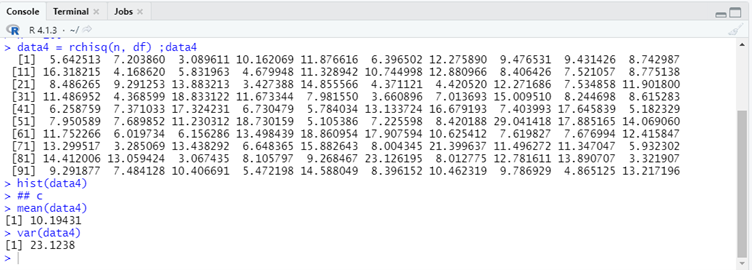
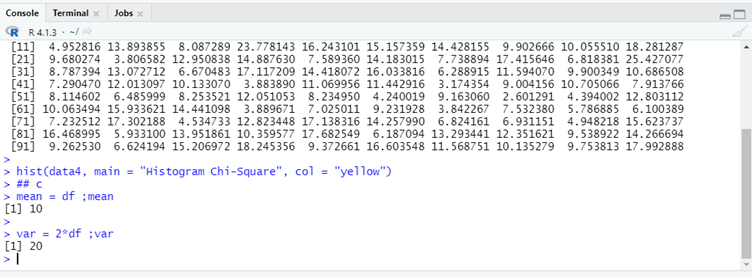
fix: mean and varians for soal4

diff --git a/README.md b/README.md
@@ -143,7 +143,7 @@ var = size * prob * (1 - prob) ;var
 - Rataan (μ)  = 4
 - Varian (σ²) = 3.2
 
-**Penjelasan** : Untuk mencari mean pada distribusi geometrik menggunakan rumus `n*p` sedangkan untuk mencari varian mengunakan rumus `n*p*(1 - p)`..
+**Penjelasan** : Untuk mencari mean pada distribusi geometrik menggunakan rumus `n*p` sedangkan untuk mencari varian mengunakan rumus `n*p*(1 - p)`.
 
 ***
 
@@ -251,7 +251,7 @@ Histogram dari Distribusi Chi-Square dengan 100 data random.
 n = 100
 data4 = rchisq(n, df) ;data4
 
-hist(data4)
+hist(data4, main = "Histogram Chi-Square", col = "yellow")
 ```
 
 ![4.b](screenshot/4.b.png)
@@ -265,17 +265,18 @@ Nilai Rataan (μ) dan Varian (σ²) dari DistribusiChi-Square.
 
 ``` r
 ## c
-mean(data4)
-var(data4)
+mean = df ;mean
+
+var = 2*df ;var
 ```
 
 ![4.c](screenshot/4.c.png)
 
 **Hasil** :
-- Rataan (μ)  = 10.19431 
-- Varian (σ²) = 23.1238
+- Rataan (μ)  = 10
+- Varian (σ²) = 20
 
-**Penjelasan** : Menggunakan fungsi `mean()` dan `var()` untuk mencari nilai rataan dan varian dari `data4`.
+**Penjelasan** : Nilai mean pada distribusi chi-square sama dengan nilai `v` (dalam hal ini `df`) sedangkan untuk mencari varian mengunakan rumus `2*v`.
 
 ***
 
